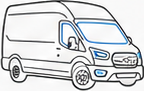
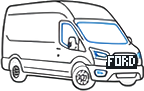
Fit Transit Horizon UI to SYNC display

diff --git a/SyncMyMod/files/app/Jan/Camper/ModernShell.qml b/SyncMyMod/files/app/Jan/Camper/ModernShell.qml
@@ -99,12 +99,10 @@ Item {
     }
 
     Rectangle {
-        anchors.fill: parent
-        radius: 25; color: "#030609"; border.color: shell.dayMode ? "#c8d1d6" : "#22313d"
-    }
-    Rectangle {
         id: screen
-        x: 7; y: 7; width: 786; height: 466; radius: 19; clip: true
+        anchors.fill: parent
+        radius: 0
+        clip: true
         gradient: Gradient {
             GradientStop { position: 0.0; color: shell.dayMode ? "#f8fafb" : "#0d1722" }
             GradientStop { position: 1.0; color: shell.dayMode ? "#edf2f4" : "#080c12" }
@@ -113,7 +111,7 @@ Item {
 
     Item {
         x: 7; y: 7; width: 786; height: 50
-        Image { x: 14; y: 7; width: 55; height: 35; source: shell.dayMode ? "transit-line-symbol-light.png" : "transit-line-symbol-dark.png"; fillMode: Image.PreserveAspectFit; smooth: true }
+        Image { x: 10; y: 5; width: 63; height: 40; source: shell.dayMode ? "transit-line-symbol-light.png" : "transit-line-symbol-dark.png"; fillMode: Image.PreserveAspectFit; smooth: true }
         Text { x: 80; y: 13; width: 385; text: shell.title(); color: visual.text; font.pixelSize: 19; font.bold: true }
         Rectangle {
             x: 602; y: 10; width: 76; height: 30; radius: 15
@@ -125,9 +123,12 @@ Item {
             V2Icon { anchors.centerIn: parent; width: 20; height: 20; kind: "sunMoon"; lineColor: visual.text; strokeWidth: 1.8 }
             MouseArea { anchors.fill: parent; onClicked: shell.host.dayMode = !shell.host.dayMode }
         }
-        Rectangle { x: 734; y: 6; width: 38; height: 38; radius: 12; color: visual.inner
-            V2Icon { anchors.centerIn: parent; width: 20; height: 20; kind: "settings"; lineColor: visual.text; strokeWidth: 1.8 }
-            MouseArea { anchors.fill: parent; onClicked: shell.currentPage = 5 }
+        Rectangle { x: 741; y: 2; width: 42; height: 42; radius: 12
+            color: closeArea.pressed ? (shell.dayMode ? "#f4d8da" : "#49242b") : visual.inner
+            border.color: shell.dayMode ? "#d75b64" : "#e47780"
+            border.width: 1
+            V2Icon { anchors.centerIn: parent; width: 21; height: 21; kind: "close"; lineColor: visual.red; strokeWidth: 2.0 }
+            MouseArea { id: closeArea; anchors.fill: parent; onClicked: shell.host.requestClose() }
         }
         Rectangle { x: 0; y: 49; width: 786; height: 1; color: visual.border; opacity: .55 }
     }
@@ -265,7 +266,7 @@ Item {
             }
             Rectangle { width: 220; height: 62; radius: 12; color: visual.inner
                 Text { x: 14; y: 14; text: "CamperControl"; color: visual.text; font.pixelSize: 10; font.bold: true }
-                Text { x: 14; y: 35; text: "v3.11.0"; color: visual.muted; font.pixelSize: 8 }
+                Text { x: 14; y: 35; text: "v3.11.1"; color: visual.muted; font.pixelSize: 8 }
             }
             Rectangle { width: 220; height: 62; radius: 12; color: visual.inner
                 Text { anchors.centerIn: parent; text: "App schließen"; color: visual.text; font.pixelSize: 10; font.bold: true }

diff --git a/SyncMyMod/files/app/Jan/Camper/Camper.qml b/SyncMyMod/files/app/Jan/Camper/Camper.qml
@@ -59,7 +59,7 @@ MouseArea {
         Text {
             width: parent.width
             horizontalAlignment: Text.AlignHCenter
-            text: "QML-Ladefehler - Version 3.11.0"
+            text: "QML-Ladefehler - Version 3.11.1"
             color: "#aeb9c5"
             font.pixelSize: 13
         }

diff --git a/tools/build_transit_line_assets.py b/tools/build_transit_line_assets.py
@@ -1,0 +1,79 @@
+"""Build transparent day/night Transit header symbols.
+
+The original V2 mockup crops contain the correct Transit perspective but also
+contain the mockup background.  This keeps that geometry pixel-for-pixel,
+derives a soft alpha mask from the source contrast and replaces only the tiny
+front grille insert with a block-letter FORD grille.
+"""
+
+from pathlib import Path
+
+from PIL import Image, ImageDraw
+
+
+ROOT = Path(__file__).resolve().parents[1]
+REFERENCE = ROOT / "reference"
+OUTPUT = ROOT / "SyncMyMod" / "files" / "app" / "Jan" / "Camper"
+
+
+def smoothstep(value: float, low: float, high: float) -> int:
+    position = max(0.0, min(1.0, (value - low) / (high - low)))
+    eased = position * position * (3.0 - 2.0 * position)
+    return round(eased * 255)
+
+
+def add_raptor_grille(image: Image.Image) -> None:
+    """Draw a compact four-letter grille that survives the 63x40 UI size."""
+
+    draw = ImageDraw.Draw(image, "RGBA")
+    # This inset stays inside the existing perspective-correct grille outline.
+    draw.polygon(((107, 55), (136, 55), (136, 68), (106, 68)), fill=(6, 13, 17, 238))
+
+    glyphs = {
+        "F": ("111", "100", "110", "100", "100"),
+        "O": ("111", "101", "101", "101", "111"),
+        "R": ("110", "101", "110", "101", "101"),
+        "D": ("110", "101", "101", "101", "110"),
+    }
+    x = 108
+    for letter in "FORD":
+        for row, pixels in enumerate(glyphs[letter]):
+            for column, pixel in enumerate(pixels):
+                if pixel == "1":
+                    draw.rectangle(
+                        (x + column * 2, 56 + row * 2, x + column * 2 + 1, 57 + row * 2),
+                        fill=(239, 247, 251, 255),
+                    )
+        x += 7
+
+
+def build(source_name: str, output_name: str, day: bool) -> None:
+    source = Image.open(REFERENCE / source_name).convert("RGB")
+    result = Image.new("RGBA", source.size, (0, 0, 0, 0))
+    source_pixels = source.load()
+    target_pixels = result.load()
+
+    for y in range(source.height):
+        for x in range(source.width):
+            red, green, blue = source_pixels[x, y]
+            luminance = 0.2126 * red + 0.7152 * green + 0.0722 * blue
+            if day:
+                # Empty source pixels sit at roughly #f9f9f9. Dark outlines,
+                # cyan glass accents and the soft body shading remain visible.
+                contrast = max(0.0, 249.0 - luminance)
+                alpha = smoothstep(contrast, 4.0, 42.0)
+            else:
+                # Empty source pixels remain below ~18 luma throughout the
+                # crop; the Transit body starts just above it and linework is
+                # considerably brighter.
+                alpha = smoothstep(luminance, 17.0, 72.0)
+            target_pixels[x, y] = (red, green, blue, alpha)
+
+    add_raptor_grille(result)
+    output = OUTPUT / output_name
+    result.save(output, "PNG", optimize=True)
+    print(f"Wrote {output} ({result.width}x{result.height}, RGBA)")
+
+
+build("transit-line-symbol-dark-source.png", "transit-line-symbol-dark.png", day=False)
+build("transit-line-symbol-light-source.png", "transit-line-symbol-light.png", day=True)

diff --git a/tests/test_v2_transit_horizon_contract.py b/tests/test_v2_transit_horizon_contract.py
@@ -3,6 +3,8 @@
 import hashlib
 from pathlib import Path
 
+from PIL import Image
+
 
 ROOT = Path(__file__).resolve().parents[1]
 QML = ROOT / "SyncMyMod" / "files" / "app" / "Jan" / "Camper"
@@ -18,6 +20,17 @@ installer = (ROOT / "SyncMyMod" / "autoinstall.sh").read_text(encoding="utf-8")
 
 def digest(name: str) -> str:
     return hashlib.sha256((QML / name).read_bytes()).hexdigest()
+
+
+def transparent_corners(name: str) -> bool:
+    image = Image.open(QML / name).convert("RGBA")
+    corners = (
+        image.getpixel((0, 0)),
+        image.getpixel((image.width - 1, 0)),
+        image.getpixel((0, image.height - 1)),
+        image.getpixel((image.width - 1, image.height - 1)),
+    )
+    return all(pixel[3] == 0 for pixel in corners)
 
 
 native_sources = "\n".join((shell, lights, energy, climate, icon))
@@ -121,10 +134,26 @@ checks = {
             'api.command("maxxfan",',
         )
     ),
-    "Transit line symbol dark asset matches prototype": digest("transit-line-symbol-dark.png")
[1 lines of base64/hex data omitted]
-    "Transit line symbol light asset matches prototype": digest("transit-line-symbol-light.png")
[1 lines of base64/hex data omitted]
+    "V2 background fills the complete 800 by 480 viewport": (
+        "anchors.fill: parent" in shell
+        and "radius: 0" in shell
+        and 'radius: 25; color: "#030609"' not in shell
+    ),
+    "top-right V2 control closes through the shared host path": (
+        'kind: "close"' in shell
+        and "onClicked: shell.host.requestClose()" in shell
+        and 'kind: "settings"' not in shell
+    ),
+    "Transit line symbol dark asset is the transparent FORD-grille build": (
+        digest("transit-line-symbol-dark.png")
[1 lines of base64/hex data omitted]
+        and transparent_corners("transit-line-symbol-dark.png")
+    ),
+    "Transit line symbol light asset is the transparent FORD-grille build": (
+        digest("transit-line-symbol-light.png")
[1 lines of base64/hex data omitted]
+        and transparent_corners("transit-line-symbol-light.png")
+    ),
     "driver photo matches prototype": digest("VehicleLightsLeft.png")
[1 lines of base64/hex data omitted]
     "passenger photo matches prototype": digest("VehicleLightsRight.png")
@@ -141,8 +170,8 @@ checks = {
             "transit-line-symbol-light.png",
         )
     ),
-    "installer and app registration use release 3.11.0": (
-        'VERSION="3.11.0"' in installer and '"appVersion":"3.11.0"' in installer
+    "installer and app registration use release 3.11.1": (
+        'VERSION="3.11.1"' in installer and '"appVersion":"3.11.1"' in installer
     ),
 }
 

diff --git a/tools/check_v2_runtime.py b/tools/check_v2_runtime.py
@@ -41,6 +41,28 @@ with tempfile.TemporaryDirectory(prefix="camper-v2-runtime-") as directory:
     view.show()
     QTest.qWait(250)
 
+    def corner_colors():
+        image = view.grabWindow()
+        if image.isNull():
+            raise AssertionError("V2 viewport could not be captured")
+        return [
+            image.pixelColor(0, 0),
+            image.pixelColor(799, 0),
+            image.pixelColor(0, 479),
+            image.pixelColor(799, 479),
+        ]
+
+    night_corners = corner_colors()
+    if any(color.alpha() != 255 or max(color.red(), color.green(), color.blue()) >= 50 for color in night_corners):
+        raise AssertionError("Night V2 background does not fill all four viewport corners")
+    root.setProperty("dayMode", True)
+    QTest.qWait(80)
+    day_corners = corner_colors()
+    if any(color.alpha() != 255 or min(color.red(), color.green(), color.blue()) <= 220 for color in day_corners):
+        raise AssertionError("Day V2 background does not fill all four viewport corners")
+    root.setProperty("dayMode", False)
+    QTest.qWait(80)
+
     shell = root.findChild(QObject, "modernShell")
     lights_page = root.findChild(QObject, "v2LightsPage")
     energy_page = root.findChild(QObject, "v2EnergyPage")
@@ -165,6 +187,24 @@ with tempfile.TemporaryDirectory(prefix="camper-v2-runtime-") as directory:
     click(592, 228)
     if snapshot()["water"]["pump"]["on"] is pump_before:
         raise AssertionError("Water-pump card did not update shared state")
+    checks += 1
+
+    # Settings remain reachable through System after the redundant header
+    # settings icon becomes the always-visible close control.
+    click(718, 433)
+    if shell.property("currentPage") != 5:
+        raise AssertionError("System navigation did not remain reachable")
+    checks += 1
+
+    close_count = {"value": 0}
+
+    def on_close_requested():
+        close_count["value"] += 1
+
+    root.closeRequested.connect(on_close_requested)
+    click(769, 30)
+    if close_count["value"] != 1:
+        raise AssertionError("Top-right V2 close control did not emit exactly one close request")
     checks += 1
 
     view.close()

diff --git a/tools/preview_qml.py b/tools/preview_qml.py
@@ -304,7 +304,7 @@ def main() -> int:
     with tempfile.TemporaryDirectory(prefix="camper-control-preview-") as directory:
         app_file = prepare_app(Path(directory))
         view = PreviewView()
-        view.setTitle("CamperControl v3.11.0 – lokale UI-Vorschau (keine Hardware)")
+        view.setTitle("CamperControl v3.11.1 – lokale UI-Vorschau (keine Hardware)")
         view.setResizeMode(QQuickView.SizeRootObjectToView)
         view.setSource(QUrl.fromLocalFile(str(app_file)))
         if view.status() == QQuickView.Error:

diff --git a/README.md b/README.md
@@ -1,4 +1,4 @@
-# CamperControl 3.11.0 für SYNC 3.4 / FMods
+# CamperControl 3.11.1 für SYNC 3.4 / FMods
 
 Reine QtQuick-2.6-App für den **Custom Apps Loader 2.3**. Sie benötigt keine native QNX-Binärdatei, keine Qt-WebSocket-Erweiterung und kein separates Desktop-QML-Projekt.
 
@@ -12,7 +12,9 @@ Reine QtQuick-2.6-App für den **Custom Apps Loader 2.3**. Sie benötigt keine n
 
 ## Installation
 
-Den Inhalt des ZIPs in das Stammverzeichnis eines leeren USB-Sticks entpacken. Dort müssen `SyncMyMod` und `DONTINDX.MSA` liegen. Dieser eine Installer installiert die QML-App, registriert `com.jan.camper` in Version 3.11.0 und integriert gleichzeitig Transit-Symbol, globalen Root-Loader sowie den Kamera- und Parkpilot-Vorrang in die Ford-Statusleiste. Bei einem Upgrade wird der geprüfte Kamera-Sichtbarkeitsblock ohne Aufruf des Patch-Programms atomar ersetzt. Vor jeder Änderung werden App, `apps.json`, `Root.qml` und Statusleiste geprüft und gesichert. Bei einem unbekannten Ford-QML-Stand wird nichts verändert.
+Den Inhalt des ZIPs in das Stammverzeichnis eines leeren USB-Sticks entpacken. Dort müssen `SyncMyMod` und `DONTINDX.MSA` liegen. Dieser eine Installer installiert die QML-App, registriert `com.jan.camper` in Version 3.11.1 und integriert gleichzeitig Transit-Symbol, globalen Root-Loader sowie den Kamera- und Parkpilot-Vorrang in die Ford-Statusleiste. Bei einem Upgrade wird der geprüfte Kamera-Sichtbarkeitsblock ohne Aufruf des Patch-Programms atomar ersetzt. Vor jeder Änderung werden App, `apps.json`, `Root.qml` und Statusleiste geprüft und gesichert. Bei einem unbekannten Ford-QML-Stand wird nichts verändert.
+
+Version 3.11.1 passt V2 an die reale 800 × 480-SYNC-Anzeige an: Der Tag-/Nacht-Hintergrund reicht ohne künstlichen dunklen Rundrahmen bis in alle vier Displayecken, das Transit-Liniensymbol ist transparent freigestellt und trägt den kompakten FORD-Grill. Der obere rechte Knopf schließt die App über den vorhandenen Ford-/FMods-Rückweg; Einstellungen bleiben über `System` erreichbar.
 
 Version 3.11.0 portiert den aktuellen **Transit-Horizon-V2-Prototyp** als native QtQuick-2.6-Oberfläche für 800 × 480 Pixel: Home, klickbare Lichtfotos beider Transit-Seiten mit sechs Lichtkreisen, Dimmer und Fernlicht, 12-/230-V-Verbraucher, Energiequellen mit schaltbarem Orion/INDEVOLT, Solar-Detail, Klima, Wasser und System. Alle Werte und Bedienungen verwenden den vorhandenen gemeinsamen `ApiClient`, Live-Snapshot und die etablierten Befehle; es gibt weder HTML-Einbettung noch übernommene Demo-Werte. Nicht verfügbare Sensoren und Geräte werden als Strich beziehungsweise deaktiviert angezeigt. Design V1 bleibt vollständig und unverändert auswählbar.
 
